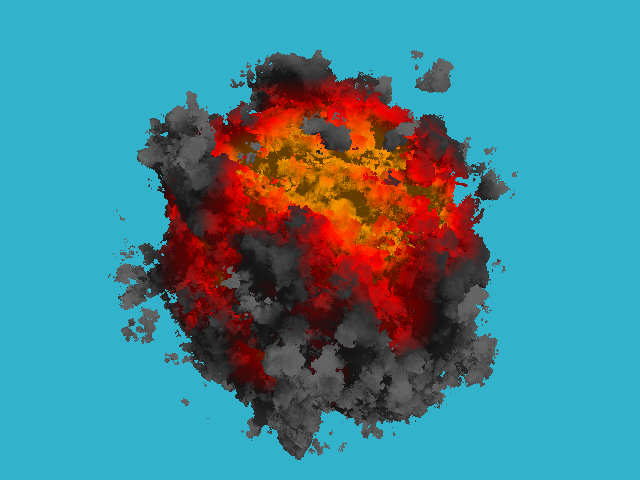
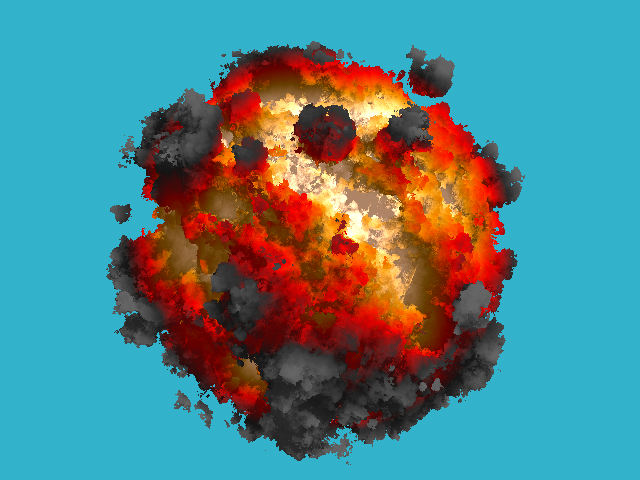
new image

diff --git a/src/main.rs b/src/main.rs
@@ -5,7 +5,7 @@ mod vec3d;
 use vec3d::Vec3d;
 
 const SPHERE_RADIUS: f64 = 1.5;
-const NOISE_AMPLITUDE: f64 = 0.7;
+const NOISE_AMPLITUDE: f64 = 1.;
 
 fn palette_fire(d: f64) -> Vec3d {
     let yellow = Vec3d::new(1.7, 1.3, 1.0); // note that the color is "hot", i.e. has components >1
@@ -114,44 +114,38 @@ fn main() {
     let w = WIDTH as f64;
     let h = HEIGHT as f64;
 
-
-        framebuffer
-            .par_iter_mut()
-            .enumerate()
-            .for_each(|(idx, frame)| {
-                let id = (idx % WIDTH) as f64;
-                let jd = (idx / WIDTH) as f64;
-                let dir_x: f64 = (id + 0.5) - w / 2.;
-                let dir_y: f64 = -(jd + 0.5) + h / 2.;
-                let dir_z: f64 = -h / (2. * (fov / 2.).tan());
-                let mut hit = Vec3d::new(0., 0., 0.);
-                if sphere_trace(
-                    [0., 0., 3.].into(),
-                    Vec3d::new(dir_x, dir_y, dir_z).normalized(),
-                    &mut hit,
-                    
-                ) {
-                    let noise_level = (SPHERE_RADIUS - hit.length()) / NOISE_AMPLITUDE;
-                    let light_dir = (Vec3d::new(10., 10., 10.) - hit).normalized();
-                    let light_intensity = (light_dir * distance_field_normal(hit)).max(0.4);
-                    *frame = palette_fire((-0.2 + noise_level) * 2.) * light_intensity;
-                } else {
-                    *frame = Vec3d::new(0.2, 0.7, 0.8);
-                }
-            });
-
-        use std::io::prelude::Write;
-        let mut file = std::io::BufWriter::new(
-            std::fs::File::create("out_r.ppm").unwrap(),
-        );
-        file.write_all(&format!("P6\n{} {}\n255\n", WIDTH, HEIGHT).as_bytes())
-            .unwrap();
-        for frame in framebuffer.iter() {
-            for j in 0..3 {
-                let pixel = ((255. * frame[j]) as i64).min(255).max(0) as u8;
-                file.write_all(&[pixel]).unwrap();
+    framebuffer
+        .par_iter_mut()
+        .enumerate()
+        .for_each(|(idx, frame)| {
+            let id = (idx % WIDTH) as f64;
+            let jd = (idx / WIDTH) as f64;
+            let dir_x: f64 = (id + 0.5) - w / 2.;
+            let dir_y: f64 = -(jd + 0.5) + h / 2.;
+            let dir_z: f64 = -h / (2. * (fov / 2.).tan());
+            let mut hit = Vec3d::new(0., 0., 0.);
+            if sphere_trace(
+                [0., 0., 3.].into(),
+                Vec3d::new(dir_x, dir_y, dir_z).normalized(),
+                &mut hit,
+            ) {
+                let noise_level = (SPHERE_RADIUS - hit.length()) / NOISE_AMPLITUDE;
+                let light_dir = (Vec3d::new(10., 10., 10.) - hit).normalized();
+                let light_intensity = (light_dir * distance_field_normal(hit)).max(0.4);
+                *frame = palette_fire((-0.2 + noise_level) * 2.) * light_intensity;
+            } else {
+                *frame = Vec3d::new(0.2, 0.7, 0.8);
             }
-        }
+        });
 
-    
+    use std::io::prelude::Write;
+    let mut file = std::io::BufWriter::new(std::fs::File::create("out_r.ppm").unwrap());
+    file.write_all(&format!("P6\n{} {}\n255\n", WIDTH, HEIGHT).as_bytes())
+        .unwrap();
+    for frame in framebuffer.iter() {
+        for j in 0..3 {
+            let pixel = ((255. * frame[j]) as i64).min(255).max(0) as u8;
+            file.write_all(&[pixel]).unwrap();
+        }
+    }
 }
